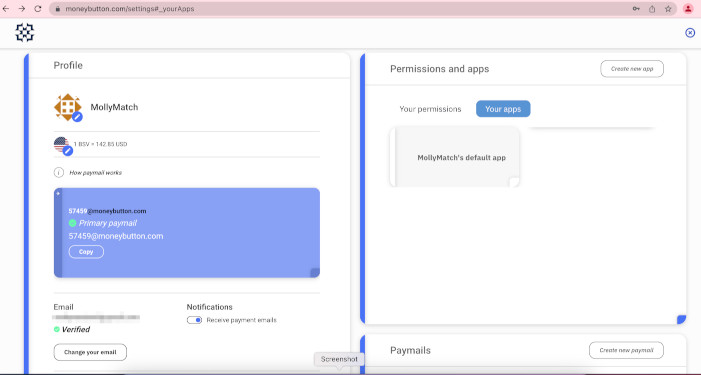
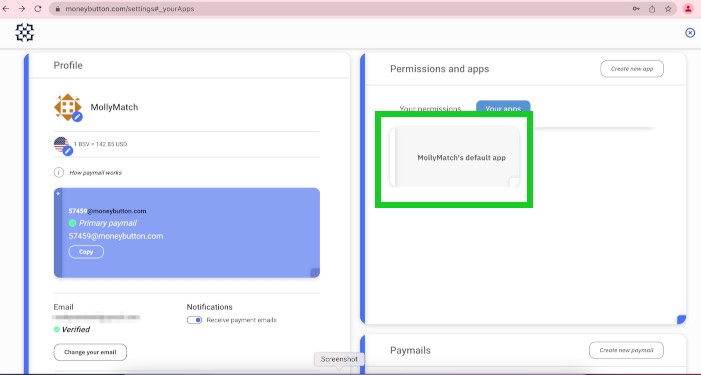
added extra screenshot image to readme

Changed region(s): [[0.5093, 0.2933, 0.7789, 0.5573]]

diff --git a/README.md b/README.md
@@ -5,6 +5,7 @@ We are following the [Create Assett doc](https://docs.moneybutton.com/docs/api/v
 You will need to set up your Client ID and Client Secret from Moneybutton's app. Screenshot below shows app location in your Moneybutton account. 
 
 ![browser](docs/images/mb_apps.jpg)
+![browser](docs/images/mb_clientsecrets.jpg)
 1. [createassets.py](createassets.py) Is the file with the code. This is missing the client id and secret. This is to keep the secrets safe and not have to worry about removing it later when sharing. Run these 2 commands in your terminal. This creates a local hidden file with the password.
 
 ````
